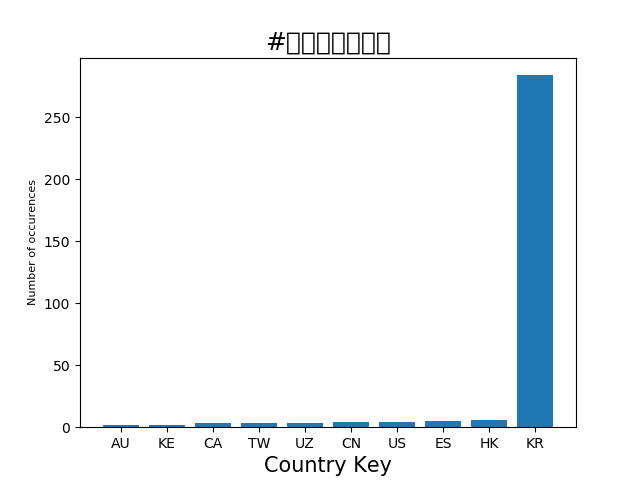
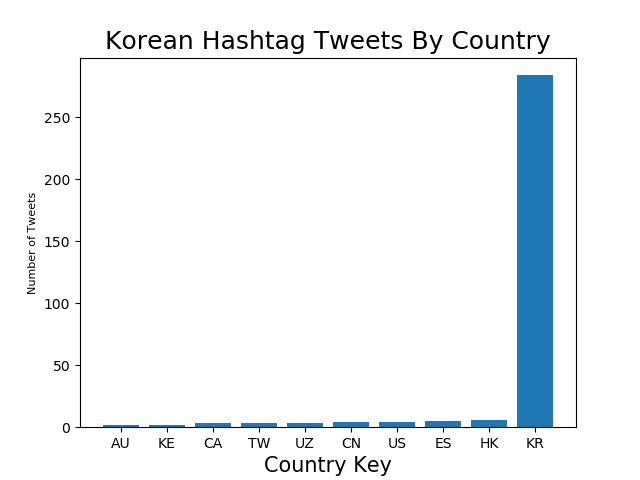
latest

Changed region(s): [[0.1562, 0.0625, 0.875, 0.125], [0.0312, 0.375, 0.0625, 0.625]]

diff --git a/src/visualize.py b/src/visualize.py
@@ -43,7 +43,7 @@ keys = keys[::-1]
 values = values[::-1]
 plt.bar(range(len(keys)), values)
 plt.xticks(range(len(keys)), keys)
-plt.xlabel("Language Key", size = 15)
-plt.ylabel("Number of occurences", size = 8)
-plt.title("#코로나바이러스", size = 18)
-plt.savefig("#코로나바이러스_language.png")
+plt.xlabel("Country Key", size = 15)
+plt.ylabel("Number of Tweets", size = 8)
+plt.title("Korean Hashtag Tweets By Country", size = 18)
+plt.savefig("#코로나바이러스_country.png")

diff --git a/src/alternative_reduce.py b/src/alternative_reduce.py
@@ -38,9 +38,6 @@ plt.ylabel("Number of Tweets")
 plt.title("Tweets Per Hashtag(2020)")
 plt.legend()
 plt.xticks([0, 60, 121, 182, 244, 305], ["1", "3", "5", "7", "9", "11 "])
-for key in args.keys:
-    yaxis_rand = [random.randint(0, 100) for i in range(len(input_files))]
-    plt.plot(np.arange(len(yaxis_rand)), yaxis_rand, label=key + ' (random)', linestyle='--', linewidth=1, alpha=0.5)
 plt.savefig("lineplot223.png")
 
 
